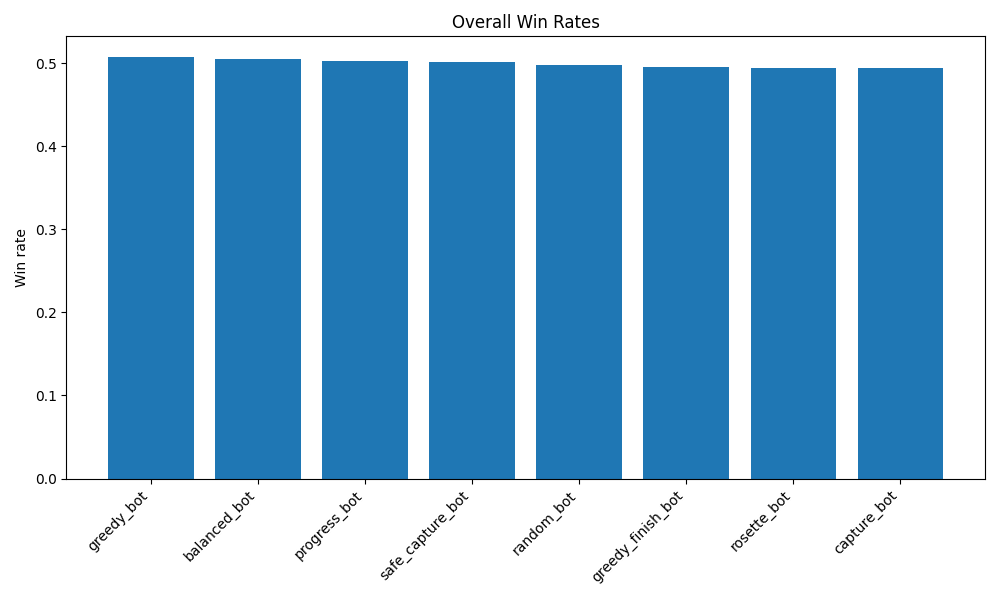
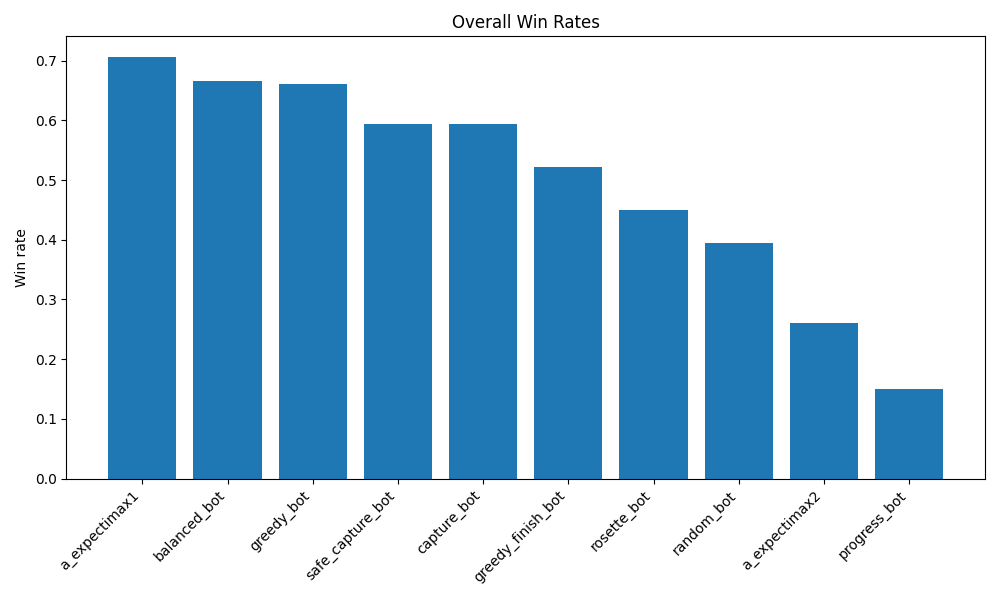
expectimax1/2ply and timing update

diff --git a/evaluate.py b/evaluate.py
@@ -2,6 +2,9 @@
 import sys
 import importlib
 from pathlib import Path
+import time
+from collections import defaultdict
+
 
 import numpy as np
 import pandas as pd
@@ -86,6 +89,22 @@ def make_bot(cls):
         # Otherwise assume it needs a filename
         filename = Path("trained") / f"{cls.__name__}.pkl"
         return cls(filename)
+    
+class TimedBot:
+    def __init__(self, bot, name, stats):
+        self.bot = bot
+        self.name = name
+        self.stats = stats
+
+    def choose(self, game, roll):
+        t0 = time.perf_counter()
+        move = self.bot.choose(game, roll)
+        dt = time.perf_counter() - t0
+
+        self.stats[self.name]["time"] += dt
+        self.stats[self.name]["calls"] += 1
+
+        return move
 
 def run_tournament(games_per_pair=100):
     bot_classes = load_bots()
@@ -97,8 +116,11 @@ def run_tournament(games_per_pair=100):
 
     pairwise = np.full((M, M), np.nan)
 
+    # timing stats
+    timing_stats = defaultdict(lambda: {"time": 0.0, "calls": 0})
+
     total_pairs = M * (M - 1) // 2
-    pbar = tqdm(total=total_pairs, desc="Pairings")
+    pbar = tqdm(total=total_pairs)
 
     for i in range(M):
         for j in range(i + 1, M):
@@ -108,16 +130,15 @@ def run_tournament(games_per_pair=100):
             winsA = 0
 
             for k in range(games_per_pair):
-                # Alternate who is player 0
+                pbar.set_description(f"{nameA} vs {nameB}")
+                # alternate starting player
                 if k % 2 == 0:
-                    bot0 = make_bot(bot_classes[nameA])
-                    bot1 = make_bot(bot_classes[nameB])
-
+                    bot0 = TimedBot(make_bot(bot_classes[nameA]), nameA, timing_stats)
+                    bot1 = TimedBot(make_bot(bot_classes[nameB]), nameB, timing_stats)
                     mapA_player = 0
                 else:
-                    bot0 = make_bot(bot_classes[nameA])
-                    bot1 = make_bot(bot_classes[nameB])
-
+                    bot0 = TimedBot(make_bot(bot_classes[nameB]), nameB, timing_stats)
+                    bot1 = TimedBot(make_bot(bot_classes[nameA]), nameA, timing_stats)
                     mapA_player = 1
 
                 winner = play_game(bot0, bot1)
@@ -139,14 +160,13 @@ def run_tournament(games_per_pair=100):
             pbar.update(1)
 
     pbar.close()
-    return names, overall_wins, overall_games, pairwise
-
+    return names, overall_wins, overall_games, pairwise, timing_stats
 
 # ---------------------------
 # Plot + Save
 # ---------------------------
 
-def save_results(names, overall_wins, overall_games, pairwise):
+def save_results(names, overall_wins, overall_games, pairwise,timing_stats):
     # ---- overall dataframe ----
     rows = []
     for n in names:
@@ -187,6 +207,34 @@ def save_results(names, overall_wins, overall_games, pairwise):
     print("overall_winrates.png")
     print("pairwise_matrix.csv")
     print("pairwise_heatmap.png")
+        # ---- timing stats ----
+    timing_rows = []
+    for n in names:
+        calls = timing_stats[n]["calls"]
+        total = timing_stats[n]["time"]
+        avg = total / calls if calls > 0 else 0.0
+        timing_rows.append([n, calls, total, avg])
+
+    tdf = pd.DataFrame(
+        timing_rows,
+        columns=["bot", "calls", "total_time_sec", "avg_time_per_call_sec"]
+    )
+    tdf = tdf.sort_values("avg_time_per_call_sec", ascending=False)
+    tdf.to_csv("bot_timings.csv", index=False)
+
+    # ---- timing bar plot ----
+    plt.figure(figsize=(10,6))
+    plt.bar(tdf["bot"], tdf["avg_time_per_call_sec"])
+    plt.ylabel("Avg time per move (seconds)")
+    plt.title("Bot Decision Time (Bottleneck Analysis)")
+    plt.xticks(rotation=45, ha="right")
+    plt.tight_layout()
+    plt.savefig("bot_avg_time.png")
+    plt.close()
+
+    print("bot_timings.csv")
+    print("bot_avg_time.png")
+
 
 
 # ---------------------------
@@ -194,5 +242,5 @@ def save_results(names, overall_wins, overall_games, pairwise):
 # ---------------------------
 
 if __name__ == "__main__":
-    names, wins, games, pairwise = run_tournament(games_per_pair=100)
-    save_results(names, wins, games, pairwise)
+    names, wins, games, pairwise,timing_stats = run_tournament(games_per_pair=20)
+    save_results(names, wins, games, pairwise,timing_stats)

diff --git a/bots/a_expectimax2.py b/bots/a_expectimax2.py
@@ -1,0 +1,105 @@
+# bots/expectimax2_bot.py
+import math
+
+DICE_PROBS = {
+    0: 1/16,
+    1: 4/16,
+    2: 6/16,
+    3: 4/16,
+    4: 1/16,
+}
+
+class Expectimax2Bot:
+    """
+    2-ply expectimax:
+    - our move
+    - opponent expected move
+    - our expected response
+    """
+
+    def choose(self, game, roll):
+        moves = game.legal_moves(roll)
+        if not moves:
+            return None
+
+        best_val = -math.inf
+        best_move = None
+
+        for m in moves:
+            g2 = game.clone()
+            g2.play_move(m, roll)
+
+            val = self.expect_opp(g2)
+            if val > best_val:
+                best_val = val
+                best_move = m
+
+        return best_move
+
+    def expect_opp(self, game):
+        val = 0.0
+        for r, p in DICE_PROBS.items():
+            g2 = game.clone()
+            moves = g2.legal_moves(r)
+
+            if not moves:
+                g2.turn ^= 1
+                val += p * self.expect_self(g2)
+            else:
+                worst = math.inf
+                for m in moves:
+                    g3 = g2.clone()
+                    g3.play_move(m, r)
+                    worst = min(worst, self.expect_self(g3))
+                val += p * worst
+        return val
+
+    def expect_self(self, game):
+        val = 0.0
+        for r, p in DICE_PROBS.items():
+            g2 = game.clone()
+            moves = g2.legal_moves(r)
+
+            if not moves:
+                g2.turn ^= 1
+                val += p * self.eval(g2)
+            else:
+                best = -math.inf
+                for m in moves:
+                    g3 = g2.clone()
+                    g3.play_move(m, r)
+                    best = max(best, self.eval(g3))
+                val += p * best
+        return val
+
+    def eval(self, game):
+        me = game.turn
+        opp = me ^ 1
+
+        my_path = game.path(me)
+        opp_path = game.path(opp)
+        Lm = len(my_path)
+        Lo = len(opp_path)
+
+        score = 0.0
+
+        # progress
+        score += 2.0 * sum(p for p in game.pos[me] if p >= 0)
+        score -= 2.0 * sum(p for p in game.pos[opp] if p >= 0)
+
+        # finished pieces (huge)
+        score += 15 * sum(p == Lm for p in game.pos[me])
+        score -= 15 * sum(p == Lo for p in game.pos[opp])
+
+        # rosettes
+        ROSETTES = {0, 4, 9, 13, 17}
+
+        for p in game.pos[me]:
+            if 0 <= p < Lm and my_path[p] in ROSETTES:
+                score += 3
+
+        for p in game.pos[opp]:
+            if 0 <= p < Lo and opp_path[p] in ROSETTES:
+                score -= 3
+
+        return score

diff --git a/bots/a_expectimax1.py b/bots/a_expectimax1.py
@@ -1,0 +1,90 @@
+# expectimax 1ply
+import math
+
+DICE_PROBS = {
+    0: 1/16,
+    1: 4/16,
+    2: 6/16,
+    3: 4/16,
+    4: 1/16,
+}
+
+class Expectimax1Bot:
+    """
+    1-ply expectimax:
+    - we choose a move
+    - opponent roll is averaged (expected value)
+    """
+
+    def choose(self, game, roll):
+        moves = game.legal_moves(roll)
+        if not moves:
+            return None
+
+        best_val = -math.inf
+        best_move = None
+
+        for m in moves:
+            g2 = game.clone()
+            g2.play_move(m, roll)
+
+            val = self.expect_value(g2)
+            if val > best_val:
+                best_val = val
+                best_move = m
+
+        return best_move
+
+    def expect_value(self, game):
+        """Expected value over opponent dice roll"""
+        val = 0.0
+        for r, p in DICE_PROBS.items():
+            g2 = game.clone()
+            moves = g2.legal_moves(r)
+
+            if not moves:
+                g2.turn ^= 1
+                val += p * self.eval(g2)
+            else:
+                # opponent chooses best move for themselves
+                best = math.inf
+                for m in moves:
+                    g3 = g2.clone()
+                    g3.play_move(m, r)
+                    best = min(best, self.eval(g3))
+                val += p * best
+        return val
+
+    def eval(self, game):
+        me = game.turn
+        opp = me ^ 1
+
+        my_path = game.path(me)
+        opp_path = game.path(opp)
+        Lm = len(my_path)
+        Lo = len(opp_path)
+
+        score = 0.0
+
+        # progress
+        score += 2.0 * sum(p for p in game.pos[me] if p >= 0)
+        score -= 2.0 * sum(p for p in game.pos[opp] if p >= 0)
+
+        # finished pieces (huge)
+        score += 15 * sum(p == Lm for p in game.pos[me])
+        score -= 15 * sum(p == Lo for p in game.pos[opp])
+
+        # rosettes
+        ROSETTES = {0, 4, 9, 13, 17}
+
+        for p in game.pos[me]:
+            if 0 <= p < Lm and my_path[p] in ROSETTES:
+                score += 3
+
+        for p in game.pos[opp]:
+            if 0 <= p < Lo and opp_path[p] in ROSETTES:
+                score -= 3
+
+        return score
+
+

diff --git a/bots/utils.py b/bots/utils.py
@@ -116,3 +116,4 @@ def can_opp_capture_after_move(game, player: int, piece: int, roll: int) -> bool
             return True
 
     return False
+
